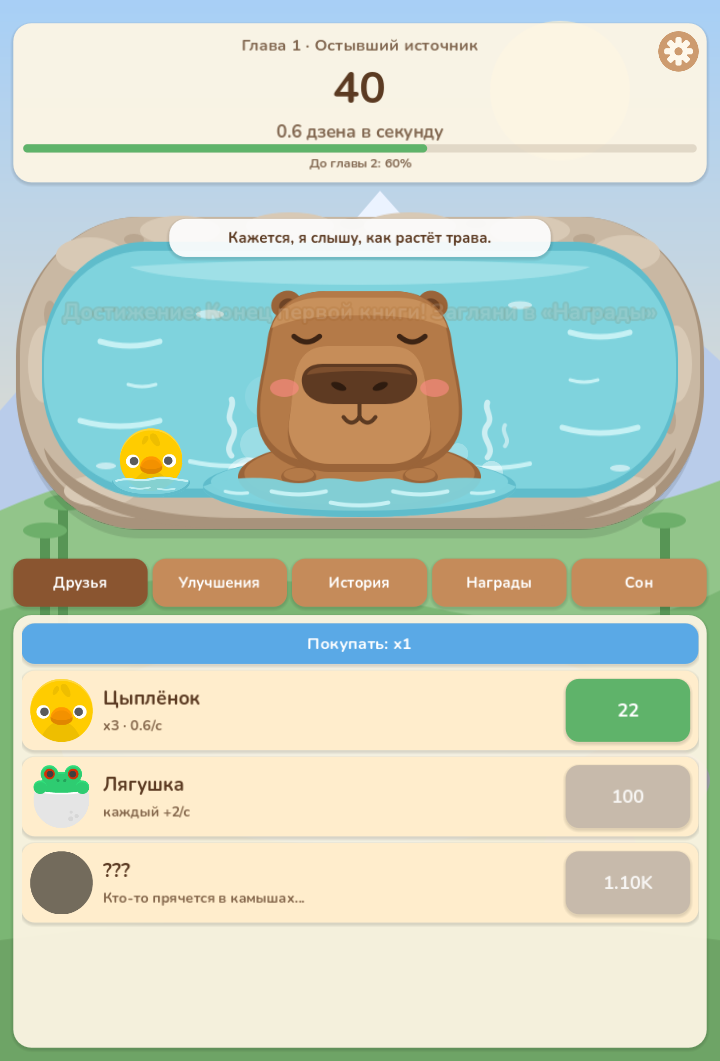
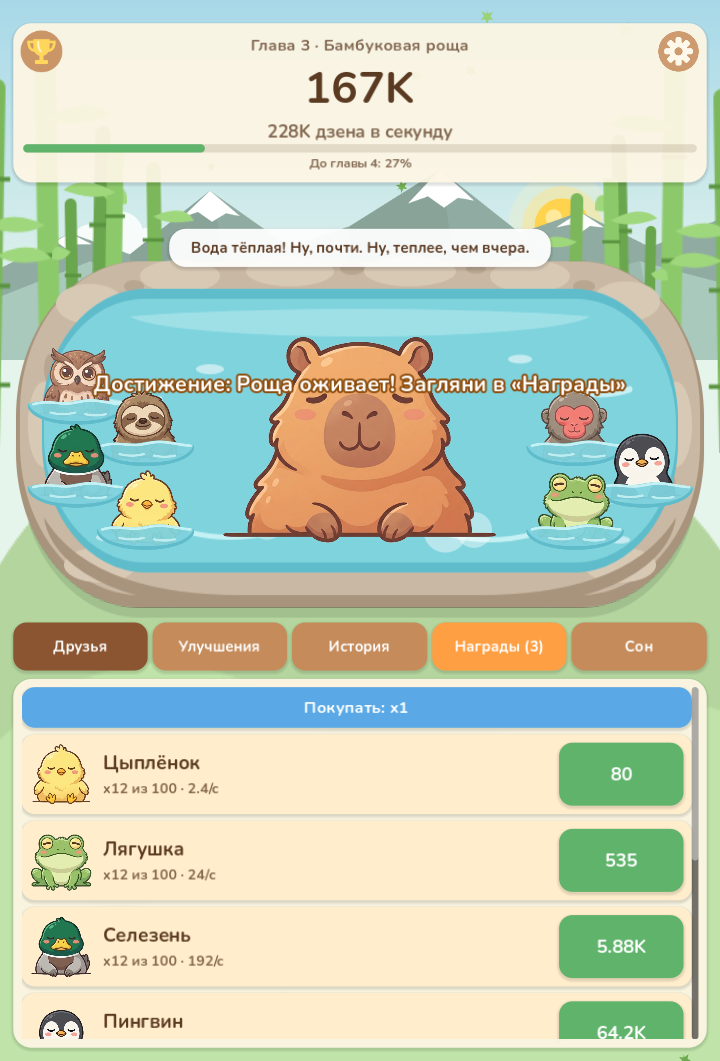
New Capy and all 24 friends in one flat cartoon style
- Capy (sleepy and happy faces) and every friend redrawn with Google Gemini,
  cut out of sprite sheets and cleaned by a Godot script
- Friends in the hot spring are drawn a bit larger to fit the new sprites
- README credits and screenshots updated

diff --git a/README.md b/README.md
@@ -58,8 +58,8 @@ docs/        # screenshots and design notes (in Russian)
 
 ## Credits and licenses
 
-- **Code, story, capybara art, sounds and music:** made for this project.
-- **Animal sprites:** [Kenney](https://kenney.nl/assets), Animal Pack Remastered, CC0. See `assets/friends/KENNEY_LICENSE.txt`.
+- **Code, story, scenery, sounds and music:** made for this project.
+- **Capybara and animal sprites:** generated for this project with Google Gemini (Nano Banana) in one shared style, then cut out and cleaned with a Godot script.
 - **Font:** [Nunito](https://fonts.google.com/specimen/Nunito), SIL Open Font License 1.1. See `assets/fonts/NUNITO_OFL.txt`.
 
 © 2026 poetiha. The code is published for viewing; all rights reserved.
